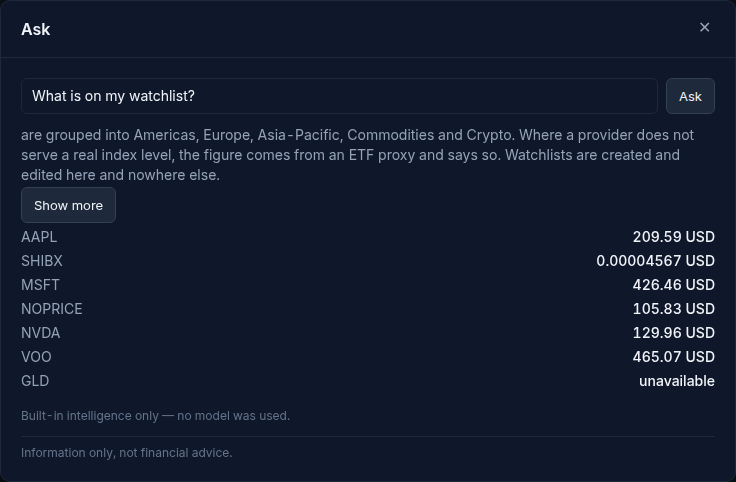
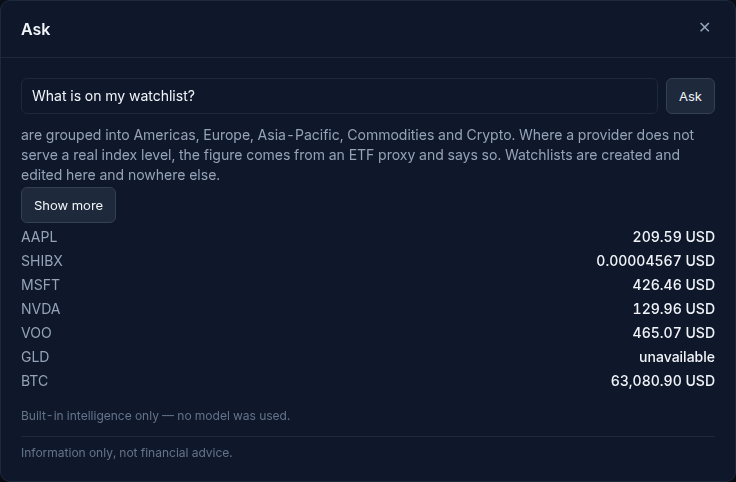
R-54 0a-i dispositions — F-3/F-5 ratified; NOPRICE fixed; W-1/W-2 filed; posture refined
Owner ruling 2026-07-21 (0a-i dispositions + GO Phase 1), items 1-6 recorded:
 1. F-3 + F-5 RATIFIED at 0a-i (by looking) — dated notes on both ledger rows.
 2. NOPRICE was MOCK-INVENTED (seeded no quote; mock prices any equity on
    cache-miss) — watchlist specimen re-cut with NOPRICE removed, honest frame
    (SHIBX 0.00004567 + GLD unavailable); seeded data pinned.
 3. Ratio kind -> 0a-ii (coverage-gated, unit-tested meanwhile).
 4. Tier-1 miss RULED: last-resort fallback scoped to tier-2; tier-1 miss takes
    the honest-miss shape; Phase 1 splits it, guard reds a tier-1 fact-carrying
    miss; ratification target = tier-1 miss on a funded instance (0a-ii).
 5. W-1 DEIXIS (named not pointed, Help bodies are Ask-panel copy) -> §9-I +
    R-55 ROADMAP row; W-2 F-7 survey WIDENS to labels + precisions.
 6. Posture recut refined (disabled/remote named in GLOSSARY vocab; local pair
    identical) — early direction, formal ratification at 0a-ii.

diff --git a/docs/plans/r54-deterministic-answers.md b/docs/plans/r54-deterministic-answers.md
@@ -34,12 +34,12 @@ row lacks a disposition.** This plan is the rule's first user.*
 
 | **F-2** | Finding | **Allocation weights omit three shipped asset classes** — `key_stats`' four buckets are `weight(...)` over hardcoded names (`analytics.py:94-97`); **`bond`, `other` and `retirement` are in NO bucket**, so the weights do not sum to 100% | Found at Phase 0-2b (`fa7b656`) from ruling ②'s *principle* — its stated precondition (a *dynamic* `key_stats` path) **does not exist**; the metrics are static literals | **⚑ OPEN — OWNER RULING OWED.** **Proven live on the SHIPPED DEMO DATA: 6.2 + 4.4 + 1.0 + 80.5 = 92.1, a 7.9-POINT SHORTFALL** on an accepted surface (D-048), caught by nothing. **Not fixed:** the repair changes **what the Portfolio page displays** — a product-content decision, not a refactor — and would break 0-2b's byte-identity proof for a reason unrelated to the derivation. **⊕ SCHEDULED 2026-07-20/21 (owner): its OWN delta in the Phase-1 window, no silent drop.** **Survey the ratified stats spec FIRST** — four-bucket vs per-class. **Governing principle either way:** every class in a **labelled** bucket · weights **sum to 100** · the census **derived from the `AssetClass` enum** (D-082 generalised). If the four-bucket grouping is ratified, **explicit assignments for `bond` / `other` / `retirement` come back to chat**. **Fail-first on the 92.1% sum with REAL-SHAPED data**; **page-portfolio pre-pass re-run + dated note**; any new labels **GLOSSARY-first** |
 
-| **F-3** | Finding | **The fact pack has its OWN money formatter, and it destroys sub-cent prices.** `_fmt` (`tools.py:25`) is `f"{value:,.2f} {ccy}"`; the D-105 formatters (`money.py:25,38,47`) are the product's. Three differences, one of them live | Found at Phase 0-4 by the ruled survey (1a), **before** any unification — which is what the survey-first ordering was for | ✅ **RULED + FIXED 2026-07-21** (`33f57bf`) — `_fmt` deleted, `money.py` owns all rendering, `format_fact_display` is the named pack variant. **Pending 0a-i** (the fact-rendering look; specimen obligation below). Original finding, for the record: **⚑ (ruling 1c: STOP, change nothing).** **(i) LIVE — sub-cent destruction:** a crypto quote of `0.00004567` renders **`0.00 USD`** through `_fmt`, while `format_price_display(…, "crypto")` gives `0.00004567`. `money.py:19-20` states the D-105 intent **verbatim**: *"crypto → up to 6 significant digits (so sub-cent tokens aren't truncated to `0.00`)"* — **the pack does exactly what D-105 exists to prevent.** Compounds with **R-56**: `_sig3("0.00") → ""` is discarded, so such a fact **cannot be narrated either** — fact list shows `0.00`, model falls back. Invisible on the demo set (BTC is high-priced): a **real-shaped-data** case. **(ii) LATENT — rounding mode:** `_fmt` uses Python's default (**banker's/HALF_EVEN** — `2.005 → 2.00`), D-105 uses **HALF_UP** (`→ 2.01`). **Not reachable on headline money today**, because `portfolio.py:577` cent-quantizes each holding first — latent, not live. **(iii) LATENT — `None`:** `_fmt(None)` **raises `TypeError`**; the D-105 formatters pass `None` through (Guarantee 3, never a fabricated 0). **⚠ NOT a pure refactor either way:** D-105's crypto path also drops thousands grouping and trims trailing zeros (`68000.50 → 68000.5`), so unification **changes ratified fact-list rendering** (ratified at AI-surfaces 0a) and needs a ruling + dated note. The R-54 0a specimens will put it in front of the owner regardless |
+| **F-3** | Finding | **The fact pack has its OWN money formatter, and it destroys sub-cent prices.** `_fmt` (`tools.py:25`) is `f"{value:,.2f} {ccy}"`; the D-105 formatters (`money.py:25,38,47`) are the product's. Three differences, one of them live | Found at Phase 0-4 by the ruled survey (1a), **before** any unification — which is what the survey-first ordering was for | ✅ **RULED + FIXED 2026-07-21** (`33f57bf`) — `_fmt` deleted, `money.py` owns all rendering, `format_fact_display` is the named pack variant. ✅ **RATIFIED at 0a-i 2026-07-21** (owner, by looking): `SHIBX 0.00004567 USD` (sub-cent) and `GLD unavailable` (unpriced) on camera (`2e9104e`, re-cut honest per W-3/item-2). Original finding, for the record: **⚑ (ruling 1c: STOP, change nothing).** **(i) LIVE — sub-cent destruction:** a crypto quote of `0.00004567` renders **`0.00 USD`** through `_fmt`, while `format_price_display(…, "crypto")` gives `0.00004567`. `money.py:19-20` states the D-105 intent **verbatim**: *"crypto → up to 6 significant digits (so sub-cent tokens aren't truncated to `0.00`)"* — **the pack does exactly what D-105 exists to prevent.** Compounds with **R-56**: `_sig3("0.00") → ""` is discarded, so such a fact **cannot be narrated either** — fact list shows `0.00`, model falls back. Invisible on the demo set (BTC is high-priced): a **real-shaped-data** case. **(ii) LATENT — rounding mode:** `_fmt` uses Python's default (**banker's/HALF_EVEN** — `2.005 → 2.00`), D-105 uses **HALF_UP** (`→ 2.01`). **Not reachable on headline money today**, because `portfolio.py:577` cent-quantizes each holding first — latent, not live. **(iii) LATENT — `None`:** `_fmt(None)` **raises `TypeError`**; the D-105 formatters pass `None` through (Guarantee 3, never a fabricated 0). **⚠ NOT a pure refactor either way:** D-105's crypto path also drops thousands grouping and trims trailing zeros (`68000.50 → 68000.5`), so unification **changes ratified fact-list rendering** (ratified at AI-surfaces 0a) and needs a ruling + dated note. The R-54 0a specimens will put it in front of the owner regardless |
 
 | **F-4** | Finding | **Watchlist fact fidelity** — `watchlist_quote_facts` read `wl.items[:8]` over a relationship with **no `order_by`** (`models/__init__.py:492`), so facts followed **insertion order** and could slice away the rows the user put at the top | Found at Phase 0-4 while building the F-3 fixture; **filed by owner ruling 2026-07-21 item 4** | ✅ **FIXED 2026-07-21** (`7ba669f`). **It was the one-line ORDER BY it appeared to be** — and in the **AI path**, not the model: `watchlists.py:34` already sorts explicitly, so the **page was right and only the AI's view of it was wrong**. Fixed in `tools.py` so no shipped surface moves. *Grounding that does not mirror what the user sees is a **fidelity** defect, not a cosmetic one* |
-| **F-5** | Finding | **`pct` / `ratio` / `count` are still rendered INLINE in `tools.py`** (`f"{round(float(v), 2)}%"` and siblings) — F-3's *"no rendering logic outside `money.py`"* was **scoped to `_fmt`** and these three survived it | Found at Phase 0-4, exposed by a **false positive** in the raw-float guard (it fired on `Return / volatility = 11.82`, a legitimately unitless ratio) | ✅ **RULED 2026-07-21 — the F-3 precedent applies WHOLESALE; own delta immediately after 0-5, BEFORE 0a's specimens are cut.** (a) registry gains **`value_kind`** (money/pct/ratio/count) as a **declared column** — rendering dispatches on kind, **never inferred from the value** (the F5-identity lesson applied to units); (b) `money.py` owns **per-kind named variants**, no inline formatting survives anywhere; (c) blast radius proven **the F-3 way** — byte-identity for every unaffected rendering, movers enumerated by ruled class; (d) **0a gains one fact per kind**, rounding changes ratified **by looking**, dated notes on any moved ratified rendering; (e) **the false-positive lesson rides the record** — `Return / volatility` stays a **unitless ratio**. ✅ **FIXED 2026-07-21 (`a8c89f5`).** `value_kind` is a declared registry column dispatched on (never inferred); `money.py` owns `format_pct_display` (unsigned, 2dp HALF_UP) + `format_ratio_display` + `format_fact_by_kind`; the inline `round(float(v),2)` dispatch is gone from `performance_facts` **and** from `total_return`'s WINNING render (`portfolio_facts` — the first-wins dedupe bypass, the F-3 "formatter exists but is bypassed" lesson recurring at the dedupe layer). Count declared on Positions, **no renderer** (Q2), tripwire armed. **Pending 0a-i** (the fact-rendering look). **⊕ CLAUSE (b) DATED SCOPE ANNOTATION (Q1 ruling 2026-07-21):** *"no rendering logic outside `money.py` — **completed for value_kind-dispatched registry-figure renders** (incl. `total_return`@`portfolio_facts`); **per-item annotations = F-7.**"* An absolute claim with five known exceptions is the §19-K shape; the claim is **re-scoped, not carried as a lie**. Original finding: The architecture holds for **money** and not yet for the rest. `round(float(v), 2)` is float-based, carrying the **same banker's-rounding class as F-3(ii)**. **Filed not fixed:** it is the same ratified-rendering question F-3 was, on three more value kinds, so it wants a ruling rather than a judgement call inside a delta |
+| **F-5** | Finding | **`pct` / `ratio` / `count` are still rendered INLINE in `tools.py`** (`f"{round(float(v), 2)}%"` and siblings) — F-3's *"no rendering logic outside `money.py`"* was **scoped to `_fmt`** and these three survived it | Found at Phase 0-4, exposed by a **false positive** in the raw-float guard (it fired on `Return / volatility = 11.82`, a legitimately unitless ratio) | ✅ **RULED 2026-07-21 — the F-3 precedent applies WHOLESALE; own delta immediately after 0-5, BEFORE 0a's specimens are cut.** (a) registry gains **`value_kind`** (money/pct/ratio/count) as a **declared column** — rendering dispatches on kind, **never inferred from the value** (the F5-identity lesson applied to units); (b) `money.py` owns **per-kind named variants**, no inline formatting survives anywhere; (c) blast radius proven **the F-3 way** — byte-identity for every unaffected rendering, movers enumerated by ruled class; (d) **0a gains one fact per kind**, rounding changes ratified **by looking**, dated notes on any moved ratified rendering; (e) **the false-positive lesson rides the record** — `Return / volatility` stays a **unitless ratio**. ✅ **FIXED 2026-07-21 (`a8c89f5`).** `value_kind` is a declared registry column dispatched on (never inferred); `money.py` owns `format_pct_display` (unsigned, 2dp HALF_UP) + `format_ratio_display` + `format_fact_by_kind`; the inline `round(float(v),2)` dispatch is gone from `performance_facts` **and** from `total_return`'s WINNING render (`portfolio_facts` — the first-wins dedupe bypass, the F-3 "formatter exists but is bypassed" lesson recurring at the dedupe layer). Count declared on Positions, **no renderer** (Q2), tripwire armed. ✅ **RATIFIED at 0a-i 2026-07-21** (owner, by looking): `Income yield 0.00%` and `Top 5 concentration 94.60%` (trailing-zero movers, fixed 2dp) on camera (`2e9104e`); **the RATIO kind (`Return / volatility`) is DEFERRED to 0a-ii** — coverage-gated on a fresh instance, unit-tested meanwhile (item 3). **⊕ CLAUSE (b) DATED SCOPE ANNOTATION (Q1 ruling 2026-07-21):** *"no rendering logic outside `money.py` — **completed for value_kind-dispatched registry-figure renders** (incl. `total_return`@`portfolio_facts`); **per-item annotations = F-7.**"* An absolute claim with five known exceptions is the §19-K shape; the claim is **re-scoped, not carried as a lie**. Original finding: The architecture holds for **money** and not yet for the rest. `round(float(v), 2)` is float-based, carrying the **same banker's-rounding class as F-3(ii)**. **Filed not fixed:** it is the same ratified-rendering question F-3 was, on three more value kinds, so it wants a ruling rather than a judgement call inside a delta |
 | **F-6** | Finding | **⛔ A REGRESSION THIS MILESTONE SHIPPED.** Phase 0-1's word-boundary conversion **silently killed the stems** written for the substring matcher (`perform`, `return`, `concentrat`, `diversif`): under `\b(...)\b` the trailing boundary requires the word to END there, so *"performing"*, *"concentration"* and *"diversified"* stopped routing. **6 of 9 probes misrouted** | Found at Phase 0-4 **by accident**, asking whether XIRR reached the pack — **not by any gate**, and not by the delta that introduced it | ✅ **FIXED 2026-07-21** (`7ba669f`) — stems carry `\w*`; **0/16 misrouted**; pinned by `test_intent_stem_probes.py` through **inflected** forms, with a blindness pin that caught `liabilit` unprobed on its first run. **⚑ THE LESSON, and it is new: A TEST THAT CAN REACH ITS ASSERTION BY TWO ROUTES CANNOT TELL YOU THAT ONE OF THEM BROKE** — the 1982-test suite stayed green because the one performance test's question also contains *"risk"*. Phase 0-1's guards were sound about what they measured and **none asked whether the rules still matched real questions**: the property was verified, the capability was not |
-| **F-7** | Finding | **Per-item annotation rendering is still inline** — 5 sites in `tools.py` format a pct annotation inline and are NOT registry figures (no declared `value_kind`): allocation weight `.1f%` (`:118`), market/instrument quote change `+.2f%` (`:171,499`), holdings weight `.1f%` (`:425`), series change `+.1f%` (`:516`) | Filed at the F-5 delta (Q1 ruling 2026-07-21) — the residue of scoping F-5 to value_kind-dispatched registry figures; the ruled mechanism (registry `value_kind` dispatch) structurally cannot apply to a quantity with no `figure_id` | **⚑ OPEN — REQUIRED SURVEY BEFORE ANY RULING (r2).** For each annotated quantity, compare the pack's precision against the **canonical page's rendering of the SAME quantity** — the real question is not *"which file owns the f-string"* but whether the same figure **wears two faces** (the F-3 species); bespoke precisions may be deliberate conventions or drift, and only the survey table can say. **Byte-identity asserted for all five sites at the F-5 delta** (`test_allocation_weight_annotation_is_unchanged` pins the one-decimal `.1f` weight form on the served pack). Not release-blocking; own delta after F-5 |
+| **F-7** | Finding | **Per-item annotation rendering is still inline** — 5 sites in `tools.py` format a pct annotation inline and are NOT registry figures (no declared `value_kind`): allocation weight `.1f%` (`:118`), market/instrument quote change `+.2f%` (`:171,499`), holdings weight `.1f%` (`:425`), series change `+.1f%` (`:516`) | Filed at the F-5 delta (Q1 ruling 2026-07-21) — the residue of scoping F-5 to value_kind-dispatched registry figures; the ruled mechanism (registry `value_kind` dispatch) structurally cannot apply to a quantity with no `figure_id`. **⊕ WIDENED by W-2 (owner's 0a-i look, 2026-07-21):** the 0a-i frame showed `Largest position 80.55%` beside its annotation `(80.6%)` — the two-faces question live on ONE frame — and `Allocation (asset_class)` **leaks an internal token** into user copy | **⚑ OPEN — REQUIRED SURVEY BEFORE ANY RULING (r2 + W-2).** For each annotated quantity, compare against the **canonical page's rendering of the SAME quantity** on **BOTH axes: precision AND label vocabulary** — the real question is not *"which file owns the f-string"* but whether the same figure **wears two faces** (the F-3 species) and whether the label is the **canonical page's** term or an internal token (`asset_class`); bespoke precisions/labels may be deliberate or drift, and only the survey table can say. **Byte-identity asserted for all five sites at the F-5 delta** (`test_allocation_weight_annotation_is_unchanged` pins the one-decimal `.1f` weight form on the served pack). Not release-blocking; own delta after F-5 |
 
 *Rows F-n (walk findings) are appended below this table as the milestone runs. **The CLOSED claim
 enumerates I-rows, F-rows and lettered sub-findings alike.***
@@ -1744,22 +1744,33 @@ errors** excluding the benign prod-dist CSP theme-flash. Screenshots at `docs/pl
 | **F-5 per-kind** (item 4) | `r54-0a-i-perkind-{light,dark}.png` | **money** (`Realised P/L 802.30 SGD`), **pct** — the F-5 fixes on camera: **`Income yield 0.00%`** and **`Top 5 concentration 94.60%`** (trailing-zero movers, fixed 2dp). Allocation annotations render `(80.6%)` one-decimal — **F-7 byte-identity, live** |
 | **F-3 sub-cent + unpriced** (item 3) | `r54-0a-i-subcent-unpriced-{light,dark}.png` | **`SHIBX 0.00004567 USD`** (sub-cent, not `0.00`) and **`GLD unavailable`** (unpriced, `None` passthrough — the demo's own unpriced instrument) |
 
-**⚑ TWO 0a-i SPECIMENS ARE COVERAGE-GATED — reported for the owner's steer, NOT cut (and NOT mocked):**
+**⊕ W-3 / item-2 — SPECIMEN-FRAME HYGIENE, ANSWERED + FIXED BEFORE PHASE 1 (owner 2026-07-21).** The
+first cut carried a seeded **`NOPRICE`** instrument that rendered `105.83 USD` — and that value was
+**mock-invented, not seeded**: it was added with **no `Quote` row**, and the mock provider generates a
+deterministic price for any equity symbol on the `get_cached_quote` cache-miss refresh. *The F-3
+fixture-saga class exactly — a fixture that silently prices the instrument under test proves nothing.*
+The watchlist specimen was **re-cut with `NOPRICE` removed** (`2e9104e`), so the committed frame reads
+honestly with no backstory: real quotes (AAPL, MSFT, BTC…), the seeded sub-cent `SHIBX`, and the
+demo's own unpriced `GLD`. The item-1 ratification stands regardless (`NOPRICE` was never a ratified
+value). **Seeded data pinned:** exactly one instrument (`SHIBX`, priced `0.00004567`); every other
+value is demo or mock-warmed.
 
-1. **The RATIO kind** (item 4's third value_kind — `Return / volatility`). It is **date-aware**: `None`
-   until `all_covered` (every held holding priced in the carry window + per-date FX). On a fresh
+**⚑ TWO 0a-i SPECIMENS WERE COVERAGE-GATED — both now RULED (owner 2026-07-21):**
+
+1. **The RATIO kind** (`Return / volatility`) → **DEFERRED to 0a-ii (item 3).** It is **date-aware**:
+   `None` until `all_covered` (every held holding priced in the carry window + per-date FX). On a fresh
    isolated instance the demo's **`HDFCNIFTY`** (an unmapped Indian fund, held) is uncovered, so
-   `da_computable=False` and the ratio never renders. Giving it coverage needs AMFI-scheme mapping +
-   INR FX backfill — R-43 machinery disproportionate to a rendering specimen. *Its rendering is
-   deterministically unit-tested (`format_ratio_display`, `test_ratio_rendering_matches_the_same_classes`);
-   its LIVE look is owed on a **covered** instance — cleanest folded into 0a-ii, which already needs
-   assembly.*
-2. **The honest-miss EMPTY shape** (item 6). `gather_facts` has a **last-resort** — `if not facts:
-   portfolio_facts + movers` (`tools.py:704-705`) — so an unroutable question on a seeded portfolio
-   returns portfolio facts, **never** the empty `REFUSAL_NO_FACTS` shape. Reproducing the empty render
-   needs an **empty-portfolio** instance. *Reported as a finding: the "honest miss" the panel actually
-   shows on a funded account is the last-resort fallback, not the empty shape — the owner may want to
-   rule which is the ratification target.*
+   `da_computable=False` and the ratio never renders; coverage needs AMFI-scheme mapping + INR FX
+   backfill, R-43 machinery disproportionate to a rendering specimen. Its rendering is
+   deterministically unit-tested (`format_ratio_display`) meanwhile; its LIVE look is owed at 0a-ii on
+   a covered instance (added to the 0a-ii specimen list below).
+2. **The honest-miss shape** → **TIER-1 MISS RULED (item 4).** `gather_facts`' last-resort
+   (`if not facts: portfolio_facts + movers`, `tools.py:704-705`) is **scoped to TIER-2 GROUNDING
+   ONLY**. **Tier-1's unroutable path takes the ratified honest-miss shape** (empty fallback + what CAN
+   be asked). **Phase 1 implements the split; guard: a tier-1 response carrying facts for an unroutable
+   question turns RED.** The ratification target is the **tier-1 miss on a funded instance, owed at
+   0a-ii** — not the empty-portfolio state (the earlier "needs an empty portfolio" framing is
+   superseded: the miss is a tier behaviour, not a data state).
 
 **⊕ DATED NOTE on the F-3 fact-pack rendering pin (owed by F-3, ruling 2026-07-21 item 4):** the
 2026-07 ratification exhibited **no sub-cent case** (the demo set has no sub-cent instrument); this
@@ -1782,6 +1793,13 @@ F-5's moved renderings:** the pct trailing-zero movers (`Income yield 0.00%`, `T
 5. **The PROPOSED DS entry** for the link affordance (§4) — *ratified at 0a by looking, never
    assumed*, and on a **free axis**: colour and slant are both taken. **Owed at 0a-ii** (Phase 1
    builds it PROPOSED; 0a-ii ratifies it live — the resolution of the circularity above).
+7. **The RATIO kind live look** (`Return / volatility`, from item 3) — **deferred from 0a-i,
+   coverage-gated** (date-aware; the demo's unmapped-held `HDFCNIFTY` blocks `all_covered` on a fresh
+   instance). Cut on a **covered** instance at 0a-ii; deterministically unit-tested (`format_ratio_display`)
+   meanwhile.
+8. **The tier-1 honest-miss on a funded instance** (item 4) — Phase 1 splits the last-resort fallback
+   (tier-2 only) from the tier-1 miss (ratified empty-fallback + what CAN be asked). The ratification
+   target is the **tier-1 miss on a funded account**, not an empty-portfolio state.
 
 ##### PROPOSED recut posture table (§9-G) — DRAFT for early objection; formal ratification at 0a-ii
 
@@ -1790,21 +1808,23 @@ descriptor — **"Ollama-compatible"** — for both local kinds; **(3)** one loc
 *"data stays on this device"* — and `POSTURE_DISABLED`'s *"fact-only answers"* re-cut now tier-1
 explains terms (not only figures). Current → PROPOSED, keyed as `POSTURE_COPY` (`ai.py:66-72`):
 
-| Key | Current (ratified 2026-07-20) | PROPOSED recut (§9-G) |
+**⊕ REFINED by the owner's early direction (item 6, 2026-07-21) — accepted as direction; FORMAL
+ratification at 0a-ii, rendered live.** `disabled` and `remote` recut to name their cause in GLOSSARY
+vocabulary (no engineering jargon); the local pair stays identical (locality is the promise).
+
+| Key | Current (ratified 2026-07-20) | PROPOSED recut — owner-directed (§9-G + item 6) |
 |---|---|---|
 | `no_egress` | "No-egress is on — this device makes no outbound calls, so answers are built from your data only, with no AI narration." | "No-egress is on — this device makes no outbound calls, so answers are built on this device from your data and the app's own explanations, with no model narration." |
-| `disabled` | "Deterministic — fact-only answers; nothing is sent anywhere." | "Deterministic — answers are built on this device from your data and the app's own explanations; nothing is sent anywhere." |
+| `disabled` | "Deterministic — fact-only answers; nothing is sent anywhere." | **"Model AI is off — answers use built-in intelligence: your data and the app's own explanations, on this device."** *(item 6b — names its cause; GLOSSARY "built-in intelligence"; no "deterministic" jargon)* |
 | `local_openai` | "On-device (local OpenAI-compatible endpoint) — data stays on this device." | "On-device (local, Ollama-compatible) — data stays on this device." |
 | `local_npu` | "On-device (local Hailo/Ollama) — portfolio facts stay on this device." | "On-device (local, Ollama-compatible) — data stays on this device." |
-| `remote` | "Remote — prompts (incl. portfolio facts) are sent to the configured provider." | *(unchanged — remote, no locality/Hailo issue)* |
+| `remote` | "Remote — prompts (incl. portfolio facts) are sent to the configured provider." | **"External model — prompts (incl. your portfolio facts) are sent to the configured provider."** *(item 6c — adopts the ratified kind name "External model")* |
 
-**⚠ Two wording choices flagged for the owner to settle now:** **(a)** the recut makes `local_openai`
-and `local_npu` **identical** — the literal reading of §9-G(2) *"both local providers are one
-user-facing kind"*; if the owner wants them distinguishable, the axis must be something other than the
-retired "OpenAI/Hailo" split. **(b)** `no_egress` and `disabled` now read very similarly (both
-deterministic, on-device) — which is faithful to the R-22 amendment's *"two no-egress posture states,
-not three"*, but the owner may want `disabled` to name the AI-off state more distinctly. **These are
-copy, ratified by looking at 0a-ii; the draft exists so the objection is cheap and early.**
+**⊕ Owner-settled (item 6):** **(a)** the local pair (`local_openai` / `local_npu`) **stays identical**
+— *"locality is the promise"* (§9-G(2), one user-facing kind); **(b)** `disabled` recut as above to
+name its cause in GLOSSARY vocabulary; **(c)** `remote` adopts the ratified three-kinds name **"External
+model"**. `no_egress` stays as drafted. **These are copy, ratified by looking at 0a-ii, rendered live;
+Phase 1 implements them (item 7).**
 
 ### Phase 1 — ASSEMBLY
 
@@ -2071,6 +2091,14 @@ spec-first** for any newly sanctioned term. **The currency suite runs at close.*
 
 **"No Help impact" is not available to this milestone** — the panel gains behaviour, so the delta is
 owed by default (§0-L).
+
+**⊕ W-1 DEIXIS RULE (owner's 0a-i look, 2026-07-21) — folded into this delta.** **Canonical-page deixis
+is NAMED, never pointed:** *"on the Markets page"*, never *"here"* / *"edited here and nowhere else"*.
+The reason is structural and new: **every Help body is now also Ask-panel copy** (the widened fact pack
+projects Help bodies into the panel, §0-C), so a Help sentence written with page-relative deixis
+(*"here"*) is **false the moment it is read in the Ask panel**, which is not that page. The `ask`-entry
+rewrite and any Help body it pulls must use named deixis; the content gate inherits it. **R-55's
+content gate inherits this rule too** (one line onto its ROADMAP row, this records commit).
 
 ### 9-J ✅ RESOLVED — **CONFIRM READING**: tier-1 output does NOT pass the model-output validator
 

diff --git a/ROADMAP.md b/ROADMAP.md
@@ -64,7 +64,7 @@ merges — the historical-FX item is a single merged entry (D-020 + D-076).
 | R-52 | **`Total value` — a D-021-retired term still shipping in live UI copy** *(filed as "a Portfolio stat label" — see the premise correction)* | page-help Phase 0 delta 3 (2026-07-19) | **Found BY the Help content pass, NOT fixed by it.** `GLOSSARY.md:327` retires **"Total value"** under **D-021** (*"use Net worth (with liabilities) / Gross assets (positive holdings), per context"*); the deprecated table says outright *"These must not appear in UI copy."* **Scope as executed:** rename the served label to **Gross assets**, grep app-wide (label changes are app-wide, page-chrome §11-4), dated delta notes, re-run the pre-pass. **⚠ PREMISE CORRECTION (2026-07-19, recorded not quietly fixed):** this row was filed — and ruled — on the premise that the term rendered as a **Portfolio** stat label. **It did not.** `key_stats().metrics` reaches exactly one frontend consumer, `Portfolio.tsx:318`, which filters to `term_id === "term-concentration"`, so Portfolio never rendered it; the genuinely user-visible instance was the **Reports Pack** per-entity Net-worth card (`reports_pack.py:248`), which the app-wide grep is what found. Both sites corrected. `tests/integration/test_performance.py` had **asserted** the retired term — the second test this milestone found pinning a defect in place. *The pre-pass exists to check the claim, not to confirm it.* Cross-ref: page-help §9-7; delta notes in `page-portfolio.md` + `reports-pack.md`. | **✅ RESOLVED pre-release** — owner ruling 2026-07-19, commit `cc2daab` |
 | R-53 | **Personalised glossary examples via engine-served derivation traces** | page-help §9-bis-3 (2026-07-19) | **Filed BY the Help redesign.** Help's Section-3 glossary ships **static, sample-marked** worked examples (§9-bis-3). Showing the user's **own** figures with a **step-by-step derivation** is a materially different thing: it requires the **calculation engine to SERVE derivation traces** — a **new API surface and a contract change** — because the alternative, re-deriving the number in the frontend to narrate it, **violates the one-derivation law**. A Help page that recomputed a figure to explain it would become a **second derivation site for that figure**, which is exactly the failure the law exists to prevent, and it would be free to drift from the canonical page while looking authoritative. This is therefore **a distinct architectural epic, not a UI rider on the Help milestone** — the work is in the engine, not the page. **Scope (owner to ratify at plan-time):** a trace-serving shape (which metrics, how a trace is represented, how it stays in step with the engine that produced it), the contract delta, and the Help rendering that consumes it. **⛔ POST-RELEASE (owner ruling 2026-07-19).** **Plan-file gate standard.** Cross-ref: page-help §9-bis-3; the one-derivation law; R-51. | post-release (owner ruling 2026-07-19) |
 | R-54 | **Deterministic answer intelligence: the two-tier Ask panel** | Owner-raised 2026-07-20, **by using the live panel** (ai-surfaces Phase 0a) | **Origin — found by use, not by review.** The owner used the shipped Ask panel and identified that **most of its value needs NO model at all**: intent routing over canonical data the device already holds. His framing: *"use-case based intelligence achievable without any LLM,"* with the explicit product value that *"a clear call-out of what the inbuilt AI can do without egress is great value in itself, with the ethos of Privacy as the core of the solution."* **Architecture — the panel becomes TWO HONEST TIERS. Tier 1 — deterministic:** intent routing + canonical endpoints; makes **zero network calls BY CONSTRUCTION**, therefore works in **every posture including no-egress**, and no egress question can even arise. **Tier 2 — model narration:** egress-gated per the **R-22 amendment** (option (b), DECISIONS.md). **Under no-egress the panel goes LOCAL, not dark.** **Tier-1 categories (the owner's examples — illustrative, NOT exhaustive):** **(a) term/knowledge** — *"what is XIRR"* retrieves the **user's own calculated XIRR** from its canonical endpoint **alongside** the glossary explanation, and this pattern applies to **any term with a live figure**; **(b) action** — *"how do I add a holding"* answers with the Help steps **plus a deep link to the actual add form**; **(c) navigation/settings** — *"toggle the theme"* deep-links straight to the Settings tab/control. **Boundaries:** the panel **EXPLAINS AND POINTS; the page ACTS** — no inline controls inside the panel (deep links, never embedded toggles). **Step-by-step calculation display is R-53** (engine-served derivation traces) — **cross-ref, do not duplicate**; together **R-53 + R-54 make the panel useful with the model as garnish, not engine** — the correct architecture for a trust product. **Posture copy:** R-54 **owns the posture-copy amendment** when tier-1 formally lands (dated notes on the ratified strings; the accuracy guards hold **both versions true in their time**). **NOTE:** the no-egress **deterministic answering that shipped at this 0a is tier-1's SEED** — see ai-surfaces §12-3; the shipped banner string is its first artifact. **Process:** own plan file, **survey-first**, §9 one-pass in chat, full loop (**0a by looking**, 3b, close under the **Help Currency Law**). **⚡ PULLED PRE-RELEASE (RD-9 Amendment 7, owner 2026-07-20).** Cross-ref: ai-surfaces §12-3, §13; R-53; R-22 amendment (DECISIONS.md); release-readiness RD-9 Amendment 7. | ⚡ v2.0.0 scope (RD-9 Amendment 7) **CARRIED INTO R-54 (chat ruling 2026-07-20):** (i) **the contention-robustness fix** for `tests/integration/test_ai_facts_routing.py:34` — re-assigned from AI-surfaces post-close (ai-surfaces §19-K); enters R-54's ledger as an intake row per the TEMPLATE amendment; (ii) **fixture hygiene** — `frontend/src/components/ui/AskPanel.test.tsx:27` mocks the served `privacy_label` with a *retired real string*; make it obviously synthetic (e.g. `"POSTURE LINE (TEST FIXTURE)"`) so a grep or a specimen can never mistake fixture copy for served copy; (iii) **posture-descriptor unification as a §9 item** — the Ask posture line says *"OpenAI-compatible endpoint"* while the Settings tab/GLOSSARY label says *"Ollama-compatible"*; both ratified, both true; whether to unify is decided at R-54's §9, which owns posture copy. **⚠ 2026-07-20 correction (r54 §0-K):** *"(ii) retired real string"* **was wrong** — the fixture string is **LIVE** (`POSTURE_LOCAL_NPU`, `app/api/v1/routes/ai.py:61`, in the pinned five-string table, ai-surfaces §12-3). "hailo" was retired from `kind_label`, a **different served field**; the Hailo/Ollama `privacy_label` was ratified **later**, at the 0a look. The hazard is **byte-identity with served copy**, and a **second instance exists** (`NO_EGRESS_STATUS`, `AskPanel.test.tsx:37-39`). **Resolved as §9-H.** |
-| R-55 | **Help content: asset classes & corporate actions** | Owner-raised 2026-07-20 (ai-surfaces Phase 0a) | **Origin.** The owner identified **missing Help coverage** in two areas: **the asset classes** (what each class *is*; how to **add / delete / modify** each, with the **class-particular parameters**) and **corporate actions** (what they are; how to apply **each kind** to holdings). **⛔ HARD GATE — VERIFY-FIRST:** R-55 documents **ONLY what shipped code actually does**. The **accuracy guards enforce this mechanically** — an entry describing **unbuilt** behaviour goes **RED, correctly**. The survey must state **honestly** which of the owner's list is **CONTENT DEBT** (feature exists, Help silent) versus **FEATURE ABSENCE** — and a feature absence becomes **a NEW ROADMAP ROW, never Help copy**. **The density concern (owner's words):** *"help is going to get dense every day; there has to be a subtle and easy way to handle this."* **Partly answered already** by structure — the three-section journey + type-ahead search scale, and the **Help Currency Law** keeps content **true** as it grows. **The OPEN QUESTION R-55 carries** is therefore not density but **content INTAKE**: a lightweight way to notice *"this feature has no entry"* **beyond** the built-page-without-entry guard, which only sees pages. **Plan-file gate standard.** **⚡ PULLED PRE-RELEASE (RD-9 Amendment 7, owner 2026-07-20).** Cross-ref: page-help §9-2, §9-5, §9-bis-8c; R-51 (the marked-but-unserved catalogue gap — **distinct**: R-51 is glossary `[Help]` parity, R-55 is subject coverage); release-readiness RD-9 Amendment 7. | ⚡ v2.0.0 scope (RD-9 Amendment 7) **CARRIES THE §19-J GUARD (chat ruling 2026-07-20):** R-55 ships the **findability parity guard** — for every sanctioned short form in the GLOSSARY parity set, Help search on the short form returns its owning entry (measuring the store against the *reader*, which spec↔code parity does not). Cross-ref ai-surfaces §19-J. |
+| R-55 | **Help content: asset classes & corporate actions** | Owner-raised 2026-07-20 (ai-surfaces Phase 0a) | **Origin.** The owner identified **missing Help coverage** in two areas: **the asset classes** (what each class *is*; how to **add / delete / modify** each, with the **class-particular parameters**) and **corporate actions** (what they are; how to apply **each kind** to holdings). **⛔ HARD GATE — VERIFY-FIRST:** R-55 documents **ONLY what shipped code actually does**. The **accuracy guards enforce this mechanically** — an entry describing **unbuilt** behaviour goes **RED, correctly**. The survey must state **honestly** which of the owner's list is **CONTENT DEBT** (feature exists, Help silent) versus **FEATURE ABSENCE** — and a feature absence becomes **a NEW ROADMAP ROW, never Help copy**. **The density concern (owner's words):** *"help is going to get dense every day; there has to be a subtle and easy way to handle this."* **Partly answered already** by structure — the three-section journey + type-ahead search scale, and the **Help Currency Law** keeps content **true** as it grows. **The OPEN QUESTION R-55 carries** is therefore not density but **content INTAKE**: a lightweight way to notice *"this feature has no entry"* **beyond** the built-page-without-entry guard, which only sees pages. **Plan-file gate standard.** **⚡ PULLED PRE-RELEASE (RD-9 Amendment 7, owner 2026-07-20).** Cross-ref: page-help §9-2, §9-5, §9-bis-8c; R-51 (the marked-but-unserved catalogue gap — **distinct**: R-51 is glossary `[Help]` parity, R-55 is subject coverage); release-readiness RD-9 Amendment 7. | ⚡ v2.0.0 scope (RD-9 Amendment 7) **CARRIES THE §19-J GUARD (chat ruling 2026-07-20):** R-55 ships the **findability parity guard** — for every sanctioned short form in the GLOSSARY parity set, Help search on the short form returns its owning entry (measuring the store against the *reader*, which spec↔code parity does not). Cross-ref ai-surfaces §19-J. **⊕ W-1 DEIXIS (R-54 0a-i, owner 2026-07-21):** R-55's content gate **inherits the named-deixis rule** — canonical-page deixis is NAMED (*"on the Markets page"*), never pointed (*"here"*), because **every Help body is now also Ask-panel copy** (R-54's widened fact pack), so page-relative deixis is false when read in the panel. Cross-ref r54 §9-I. |
 | R-56 | **A legitimately ZERO figure can never be narrated** — `_sig3("0.00") → ""` is discarded, so a true zero traces to nothing | ai-surfaces §12-4, **ruled as Finding 7** by the owner 2026-07-20 | **Found while BUILDING the narration stub, not by review** — the first three attempts to photograph a passing narrated answer fell back with `unsupported figure '0.00' not in the facts`. **Mechanism, exactly:** `app/ai/safety.py:93` `_sig3()` returns the first three **significant** digits, so `"0.00"` reduces to the empty string; `safety.py:133` then does `fact_sigs.discard("")`, removing it from the traceable set. A **true and useful** zero — *"Today's change: 0.00 SGD"*, *"Income: 0.00 SGD"* — therefore **traces to no fact**, and any answer that quotes it **fails validation clause 2** and falls back to the deterministic template. **⚠ IT ERRS SAFE, and that is why it is polish and not a defect:** the failure mode is *a zero goes un-narrated*, never *a zero is fabricated*. The user still sees the figure — it is in the fact pack, correctly formatted, above the answer; only the prose cannot mention it. **The product is quieter than it could be, never wronger.** **Why the fix is a JUDGEMENT and not a typo:** under a leading-significant-digits comparison a zero is genuinely indistinguishable from "no significant digits", so the discard is not a mistake — it is the correct handling of an empty parse, applied to a value that happens to parse empty legitimately. Any repair must distinguish *"this token had no digits"* from *"this token's digits are all zero"* **without** widening what the validator will accept, and the contract **may not weaken** (Commitment 7 / D-071). **Scope sketch (owner to ratify at plan-time):** a zero-aware signature (e.g. a sentinel for a numerically-zero token) covering the token side and the fact side symmetrically; guards asserting a zero fact **can** be cited **and** that no non-zero figure becomes citable as a side effect. **⛔ POST-RELEASE by owner ruling 2026-07-20 (Finding 7).** **Plan-file gate standard.** Cross-ref: ai-surfaces §12-4, §14-5; SECURITY-BASELINE §5 clause 2; D-071. | post-release (owner ruling 2026-07-20) **⊕ 2026-07-21 cross-ref (R-54 F-3, `33f57bf`):** F-3's fix removes **rendering-artifact zeros** from `_sig3`'s input — a sub-cent price no longer arrives as `"0.00"`, so it no longer reduces to `""` and is no longer discarded from the traceable set. **R-56 remains open for TRUE zero-valued facts** (a genuine `0.00` change, true and useful); its **blast radius is now smaller, not closed.** |
 | R-57 | **AI model management (Settings › AI)** — endpoint URL + write-only key + kind selection | owner-ruled 2026-07-20 (chat, AI-surfaces close review) | **Origin.** At the close review the owner asked how a user configures an external OpenAI-compatible endpoint; today the answer is **environment only**, and the tab says so in its ratified sentence (*"Model management is not configurable here yet"*). **Ruled: build the configuration surface, required pre-release.** **Scope sketch (to ratify at plan-time):** the AI tab gains configuration for the **three kinds** (GLOSSARY): kind selection; endpoint URL for On-device model (Ollama-compatible); endpoint + **write-only** API key for External model (R-41's key pattern — write-only, never echoed; §8 secrets discipline: the F9 note already refuses to name values). **The interplay is the hard part:** F9's divergence detection extends — a write while an OS-env override is in force must say it did nothing (ai-surfaces §17-4); `app/ai/vocabulary.py` stays the **one resolver** (Finding 6 — *two sources of truth for one fact is the whole defect*); the *"not configurable here yet"* sentence retires with a **dated note**, both versions true in their time (the posture-copy pattern). **Boundary:** configuration, not management — **no model pull/download UI** (the R-22 amendment rationale: LedgerFrame does not control the model server's own egress). **Plan-file gate standard** (own plan file, survey-first, §9 one-pass, 0a by looking, Help Currency Law — the Settings Help entry changes). Cross-ref: ai-surfaces §17-4, §14-3/F6, GLOSSARY three kinds, R-41, R-54. | ⚡ v2.0.0 scope (RD-9 Amendment 8) |
 | R-58 | **The `settings.key` check-then-insert race, everywhere else it lives** — four filed sites outside `get_history_cached` | F10 census, chat ruling 2026-07-20 | **Origin — a census, not a report.** The F10 delta fixed this race at **four sites inside `get_history_cached`** and the ruling required a **read-only sweep of `app/`** for the same shape rather than stopping at the reported defect. The shape is **`SELECT Setting -> if absent, session.add(Setting(...)) -> flush()`** on `settings.key`: two concurrent callers both read absent, both insert, and the loser dies on `sqlite3.IntegrityError: UNIQUE constraint failed: settings.key`. **THE FOUR FILED SITES, in the order they should be taken:** **(1) `app/services/briefing.py:201-207` — FIRST, and it is not a tie.** It is a **generic `_set(session, key, value)` helper**, so the defect is not at one call site but at **every caller it has**, present and future; fixing it retires the widest blast radius in the census and is the one place where a repair compounds. **(2) `app/services/feeds.py:72-78`** (`FEEDS_SETTING_KEY`). **(3) `app/api/v1/routes/settings.py:131-135`** — the settings PATCH loop, user-triggered. **(4) `app/api/v1/routes/system.py:617-621`** — reset writing `SEED_FLAG_KEY`. **ADJACENT, NOT THE SHAPE — recorded so it is not mistaken for a fifth:** `app/seed/demo.py:327` inserts `SEED_FLAG_KEY` **unconditionally, with no SELECT at all**. It is not a check-then-insert race, but a **concurrent double-seed would still collide on it**; whether that path can ever run twice is a question R-58 answers rather than assumes. **⚠ SEVERITY, STATED HONESTLY: none of the four sits on a guaranteed-concurrent path** the way F10's did — F10 was on the fresh-DB first-load path **every new install takes**, which is why it was release-train blocking and this is not. These are reachable under concurrency, not reached by it as a matter of course. **That is a severity statement, not a dismissal:** the same defect that 500'd a first load will 500 these when their path is concurrent, and the repair is now a **known, tested, one-line primitive**. **⛔ FAIL-FIRST IS MANDATORY AND SO IS ITS BLINDNESS PIN (F10's hardest-won lesson, CLAUDE.md *a guard is pinned against going blind*):** each site's test must **reproduce the RED first**, and must **assert it REACHED the insert it guards** — at F10 the site-4 test **passed twice while never reaching the insert at all** (an `alphavantage` stub without `av_tier="premium"` is gated off as `tier_disabled`, `market.py:510`, and the route returns early). **A green test that never arrived is indistinguishable from a green test that found nothing.** Note also F10's posture lesson: a preceding write in the same transaction can take SQLite's write lock and **serialise concurrent callers, hiding the race entirely** — so the fresh/new-entity posture is often the **forgiving** one, not the worst case. **Reproduction and fix verified on SQLite only; Postgres injectable via `LEDGERFRAME_DB_URL` (02-DATA-MODEL §2.2) widens the race window — the savepoint-claim primitive is isolation-portable, but untested there, as is the whole suite.** **The fix is already written:** reuse F10's `_claim_marker` shape (`app/services/market.py`) — insert inside a **SAVEPOINT**, absorb the loser's `IntegrityError`, return whether this caller won — promoted to a shared home rather than copied four times, so the sites cannot drift apart. **Plan-file gate standard.** Cross-ref: `ai-surfaces.md` §17-5 delta note (the census), §18 F10 row, commit `63ec86a`. | ⚡ v2.0.0 scope (RD-9 Amendment 9) |